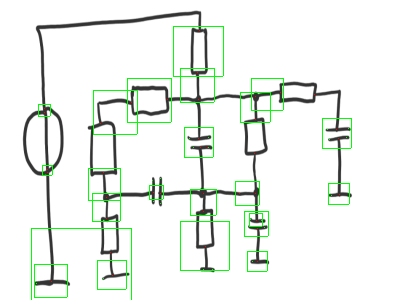
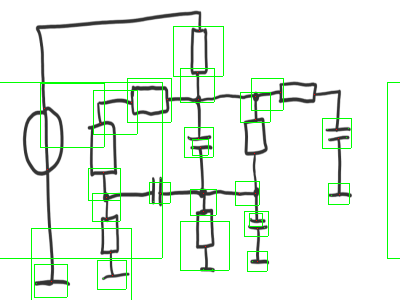
:fire: removed main jupyter file and added main.py

diff --git a/src/main.py b/src/main.py
@@ -1,0 +1,95 @@
+# Smarter Circuits #
+import numpy
+import matplotlib.pyplot as plt
+import cv2
+import featureRecognition as fr
+import boundingBox as bb
+import math
+from classes import Rect
+
+## Load Image ##
+def loadImage(path, name):
+    image = cv2.imread('{path}\\{name}'.format(path=path,name=name))
+    colorImage = numpy.empty_like(image)
+    colorImage[:] = image
+    image = cv2.cvtColor(image, cv2.COLOR_RGB2GRAY)
+    image = 255 - image
+    return numpy.asarray(colorImage), numpy.asarray(image)
+
+def thinnImage(image):
+    image = cv2.ximgproc.thinning(image)
+    return image
+
+### Preprocess Image ###
+(colorImage, image) = loadImage(".\\testImages","raf1.png")
+image = cv2.resize(image, (400,300), interpolation = cv2.INTER_AREA)
+colorImage = cv2.resize(colorImage, (400,300), interpolation = cv2.INTER_AREA)
+
+cv2.imwrite("resize.png", numpy.asarray(colorImage))
+
+#for y in range(0,len(image)):
+#    for x in range(0, len(image[y])):
+#        if image[y][x] > 110:
+#            image[y][x] = 255
+#        else:
+#            image[y][x] = 0
+
+#cv2.imwrite("out.png", 255 - image)
+
+image = thinnImage(image)
+
+cv2.imwrite("binary.png",255 - numpy.asarray(image))
+
+plt.imshow(image, cmap=plt.cm.binary)
+
+
+## Feature Recognition ##
+def drawFeatures(image, intersections, endPoints):
+    for intersection in intersections:
+        image[intersection.x][intersection.y] = (0,0,255)
+    for endPoint in endPoints:
+        image[endPoint.x][endPoint.y] = (0,255,0)
+    return image
+(endPoints, intersections) = fr.getFeatures(image=image)
+colorImage = drawFeatures(colorImage, intersections, endPoints)
+cv2.imwrite("features.png", numpy.asarray(colorImage))
+
+
+## Bounding Box Creation ##
+def drawRect(image, rect):
+    startX = math.floor(rect.center.x - rect.radius)
+    startY = math.floor(rect.center.y - rect.radius)
+
+    endX = math.floor(rect.center.x + rect.radius)
+    endY = math.floor(rect.center.y + rect.radius)
+    
+    for x in range(startX,endX):
+        #image[startY][x] = (0,255,0)
+        #image[endY][x] = (0,255,0)
+        try:
+            image[x][startY] = (0,255,0)
+            image[x][endY] = (0,255,0)
+        except:
+            pass
+
+    for y in range(startY,endY):
+        #image[y][startX] = (0,255,0)
+        #image[y][endX] = (0,255,0)
+        try:
+            image[startX][y] = (0,255,0)
+            image[endX][y] = (0,255,0)
+        except:
+            pass
+
+    return image
+
+    
+## Draw Bounding Boxes and Features ##
+boundingBoxes = bb.getBoundingBox(intersectionList=intersections, endPointList=endPoints)
+for box in boundingBoxes:
+    drawRect(colorImage, box)
+
+colorImage = drawFeatures(colorImage, intersections, endPoints)
+
+cv2.imwrite("out.png", numpy.asarray(colorImage))
+plt.imshow(colorImage, cmap=plt.cm.binary)

diff --git a/src/featureRecognition.py b/src/featureRecognition.py
@@ -72,7 +72,7 @@ def getFeatures(image):
     for filter in intersectionFilters:
         intersections = intersections + applyFilter(filter, image, points)
 
-    # remove unnecessary intersections
+    #remove unnecessary intersections
     filteredIntersections = []
 
     filteredIntersections.append(intersections[0])
@@ -82,7 +82,7 @@ def getFeatures(image):
         connected = False
         for filtered in filteredIntersections:
             dist = math.sqrt((inter[0] - filtered[0])**2 + (inter[1] - filtered[1])**2)
-            if dist < 2:
+            if dist < 5:
                 connected = True
         if not connected:
             filteredIntersections.append(inter)
